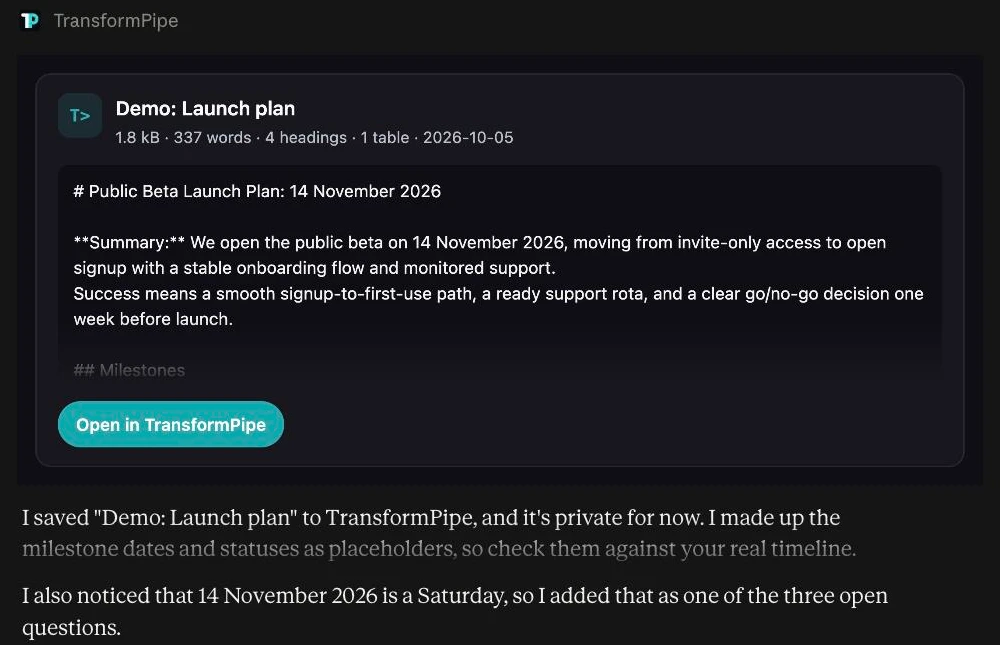
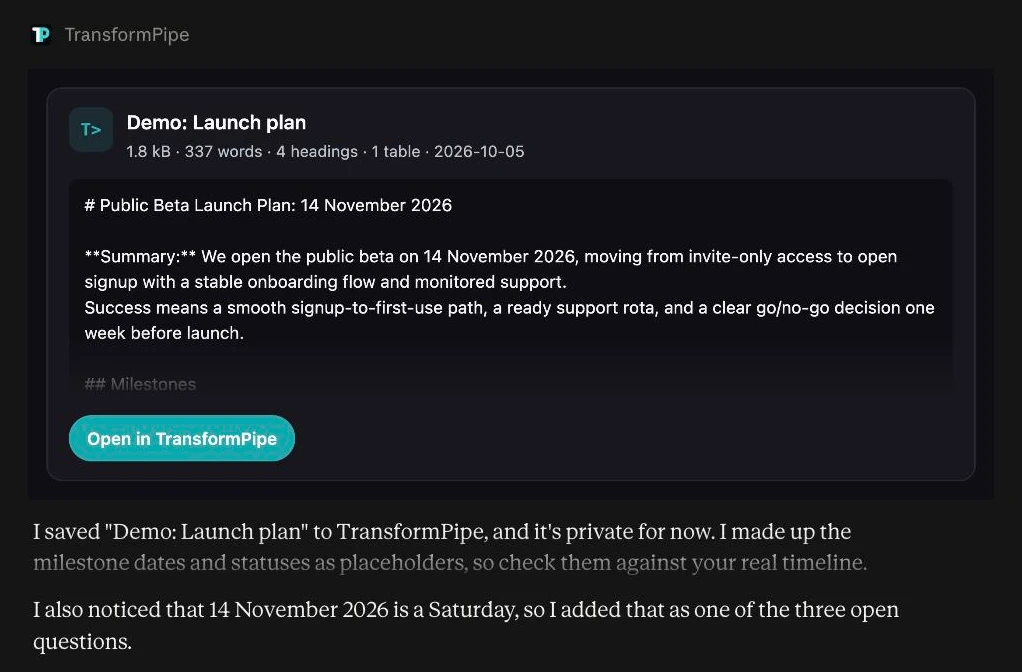
Sharing from a chat shows who can open it
tp_share_document now answers with the document card, drawn as the share stands: shared or
private, who it is shared with, how often the link was opened, and a button for the shared link.

The assistants' pages take the Obsidian page's measurements: every screenshot sits in a frame of
the same proportions, so the pictures render at the same size on all three. The Claude page gets
a third phone.

diff --git a/server/ui-card.ts b/server/ui-card.ts
@@ -179,6 +179,25 @@ button {
 button.quiet { background: transparent; border-color: var(--stroke); color: var(--ink); }
 button:focus-visible { outline: 2px solid var(--brand); outline-offset: 2px; }
 .empty { color: var(--muted); font-size: 13px; }
+/* A share, as it now stands: the state on the right of the head, and who, how often, until when below. */
+.top .grow { flex: 1; min-width: 0; }
+.state {
+  flex: none;
+  padding: 2px 9px;
+  border-radius: 999px;
+  font-size: 12px;
+  font-weight: 600;
+  background: color-mix(in srgb, #16a34a 16%, transparent);
+  color: #15803d;
+}
+:root[data-theme="dark"] .state:not(.off) { color: #4ade80; }
+.state.off { background: var(--page); color: var(--muted); }
+.rows { margin-top: 12px; padding-top: 4px; border-top: 1px solid var(--stroke); }
+.row { display: flex; justify-content: space-between; gap: 12px; padding: 7px 0; font-size: 13px; }
+.row .label { flex: none; color: var(--muted); }
+.row .value { min-width: 0; text-align: right; color: var(--ink); overflow-wrap: anywhere; }
+.row .value.link { color: var(--brand); }
+.actions.wide button { flex: 1; }
 </style>
 </head>
 <body>
@@ -211,7 +230,78 @@ button:focus-visible { outline: 2px solid var(--brand); outline-offset: 2px; }
       ? (bytes / 1024).toFixed(1) + ' kB'
       : (bytes / 1048576).toFixed(1) + ' MB';
 
+  const day = (when) => String(when || '').slice(0, 10);
+
+  /* After tp_share_document: not the document's contents but who can now open it. */
+  function drawShare(document_) {
+    const card = document.getElementById('card');
+    card.textContent = '';
+
+    const shared = document_.share && document_.share !== 'private';
+    const top = el('div', 'top');
+    top.append(el('div', 'glyph', 'T>'));
+
+    const words = el('div', 'grow');
+    words.append(el('h1', null, document_.name || 'Document'));
+    const meta = [
+      weigh(document_.size),
+      document_.words ? document_.words.toLocaleString('en-GB') + ' words' : '',
+    ].filter(Boolean).join(' · ');
+    if (meta) words.append(el('div', 'meta', meta));
+    top.append(words);
+    top.append(el('span', shared ? 'state' : 'state off', shared ? 'Shared' : 'Private'));
+    card.append(top);
+
+    const rows = el('div', 'rows');
+    const row = (label, value, className) => {
+      const line = el('div', 'row');
+      line.append(el('span', 'label', label));
+      line.append(el('span', className ? 'value ' + className : 'value', value));
+      rows.append(line);
+    };
+
+    row('Access', document_.share === 'link'
+      ? 'Anyone with the link'
+      : document_.share === 'people'
+        ? 'Specific people'
+        : 'Only you — the old link no longer opens');
+
+    const readers = Array.isArray(document_.readers) ? document_.readers : [];
+    if (document_.share === 'people') {
+      row(readers.length === 1 ? 'Reader' : 'Readers', readers.join(', ') || 'Nobody yet', 'link');
+    }
+
+    if (shared) {
+      row('Opens', !document_.opens
+        ? 'Not opened yet'
+        : (document_.opens === 1 ? 'Once' : document_.opens + ' times') +
+          (document_.lastOpened ? ', last ' + day(document_.lastOpened) : ''));
+    }
+
+    if (shared && document_.shareExpires) row('Link ends', day(document_.shareExpires));
+
+    card.append(rows);
+
+    const actions = el('div', 'actions wide');
+
+    if (document_.shareUrl) {
+      const open = el('button', null, 'Open shared link');
+      open.addEventListener('click', () => openLink(document_.shareUrl));
+      actions.append(open);
+    }
+
+    if (document_.url) {
+      const app = el('button', document_.shareUrl ? 'quiet' : null, 'Open in TransformPipe');
+      app.addEventListener('click', () => openLink(document_.url));
+      actions.append(app);
+    }
+
+    if (actions.children.length) card.append(actions);
+  }
+
   function draw(document_) {
+    if (document_.sharing) return drawShare(document_);
+
     const card = document.getElementById('card');
     card.textContent = '';
 

diff --git a/src/features/AgentsPage.tsx b/src/features/AgentsPage.tsx
@@ -82,29 +82,29 @@ interface Showcase {
 const SHOWCASE: Partial<Record<'claude' | 'chatgpt', Showcase>> = {
   claude: {
     hero: {
-      back: { src: '/agents/claude/chat-link.webp', width: 1000, height: 320 },
+      back: { src: '/agents/claude/chat-link.webp', width: 1000, height: 625 },
       front: { src: '/agents/claude/page.webp', width: 1290, height: 1133 },
       url: 'transformpipe.com/s/ScwxxPECB6…',
     },
     features: [
-      { src: '/agents/claude/chat-saved.webp', width: 1000, height: 645 },
+      { src: '/agents/claude/chat-saved.webp', width: 1022, height: 672 },
       { src: '/agents/claude/page-wide.webp', width: 1260, height: 1095 },
-      { src: '/agents/claude/chat-found.webp', width: 1000, height: 700 },
-      { src: '/agents/claude/chat-updated.webp', width: 1000, height: 590 },
+      { src: '/agents/claude/chat-found.webp', width: 1188, height: 702 },
+      { src: '/agents/claude/chat-updated.webp', width: 1000, height: 625 },
     ],
-    phones: ['/agents/claude/phone-list.webp', '/agents/claude/phone-page.webp'],
+    phones: ['/agents/claude/phone-share.webp', '/agents/claude/phone-list.webp', '/agents/claude/phone-page.webp'],
   },
   chatgpt: {
     hero: {
-      back: { src: '/agents/chatgpt/chat-link.webp', width: 1050, height: 480 },
+      back: { src: '/agents/chatgpt/chat-link.webp', width: 1056, height: 660 },
       front: { src: '/agents/chatgpt/page.webp', width: 1290, height: 1133 },
       url: 'transformpipe.com/s/-Dsf83Omfu…',
     },
     features: [
-      { src: '/agents/chatgpt/chat-saved.webp', width: 1050, height: 530 },
+      { src: '/agents/chatgpt/chat-saved.webp', width: 1095, height: 720 },
       { src: '/agents/chatgpt/page-wide.webp', width: 1260, height: 1095 },
-      { src: '/agents/chatgpt/chat-found.webp', width: 1050, height: 400 },
-      { src: '/agents/chatgpt/chat-updated.webp', width: 1050, height: 540 },
+      { src: '/agents/chatgpt/chat-found.webp', width: 1056, height: 624 },
+      { src: '/agents/chatgpt/chat-updated.webp', width: 1056, height: 660 },
     ],
     phones: ['/agents/chatgpt/phone-list.webp', '/agents/chatgpt/phone-page.webp'],
   },
@@ -844,7 +844,7 @@ export function AgentsPage({ page, onGoToConverter }: { page: Page; onGoToConver
       />
 
       {/* ------------------------------------------------------------------ the opening */}
-      <header className="grid items-center gap-12 lg:grid-cols-[1fr_1.1fr] lg:gap-16">
+      <header className="grid items-center gap-12 lg:grid-cols-[1fr_1.15fr] lg:gap-16">
         <div className="flex flex-col gap-6">
           <div className="flex flex-wrap items-center gap-3">
             <Label>{landing.eyebrow}</Label>

diff --git a/server/mcp.ts b/server/mcp.ts
@@ -1329,6 +1329,7 @@ const TOOLS: Record<McpToolName, Tool> = {
   tp_share_document: {
     description:
       'Changes who may open a document. "link" is anyone holding the URL, "people" is only the addresses given, "private" revokes the link entirely — a URL already sent stops working. A `mode` of "link" or "people" discloses the document outside the account and requires `confirm: true`; without it nothing changes and the call returns what would have been disclosed. Revoking with "private" is not gated. `emails` replaces the list rather than adding to it. Returns the mode, the URL and the addresses as they now stand.',
+    ui: DOCUMENT_CARD_URI,
     annotations: {
       title: 'Share a document',
       readOnlyHint: false,
@@ -1422,7 +1423,15 @@ const TOOLS: Record<McpToolName, Tool> = {
 
       const emails = (changed.body.emails ?? []) as string[];
 
-      return say(
+      /*
+       * The card shows the share as it now stands — who, how often opened, the shared link — and it
+       * needs the document's name and size for its head, which the share answer does not carry. A
+       * read that fails costs the head, not the card.
+       */
+      const found = await callApi(c, `/api/v1/documents/${segment(id)}`);
+      const document = found.status === 200 ? found.body.document : { id, name: '', kind: 'markdown', size: 0 };
+
+      return card(
         [
           `Now ${changed.body.mode}.`,
           changed.body.url ? changed.body.url : 'The link is revoked, so one already sent no longer opens.',
@@ -1432,7 +1441,17 @@ const TOOLS: Record<McpToolName, Tool> = {
           emails.length > 0 ? `Readers: ${emails.join(', ')}` : null,
         ]
           .filter(Boolean)
-          .join('\n')
+          .join('\n'),
+        {
+          ...forCard(c, document),
+          share: changed.body.mode,
+          shareUrl: changed.body.url ?? '',
+          shareExpires: changed.body.expires_at ?? '',
+          sharing: true,
+          readers: emails,
+          opens: changed.body.views ?? 0,
+          lastOpened: changed.body.last_viewed_at ?? '',
+        }
       );
     },
   },

diff --git a/src/lib/changelog.ts b/src/lib/changelog.ts
@@ -123,6 +123,15 @@ const ENTRIES: ChangelogEntry[] = [
   },
   {
     date: '2026-10-05',
+    title: 'Sharing from a chat shows who can open it',
+    body:
+      'Sharing a document from Claude or ChatGPT used to end in a sentence. It now ends in a card: '
+      + 'the document, whether it is shared, who it is shared with, how often the link has been '
+      + 'opened, and a button for the shared link — the same answer every time, not only when '
+      + 'somebody asks for one.',
+  },
+  {
+    date: '2026-10-05',
     title: 'Ask an assistant what changed in a document',
     body:
       'Updating a document keeps the text it replaced, the newest ten of them, and until now an '
